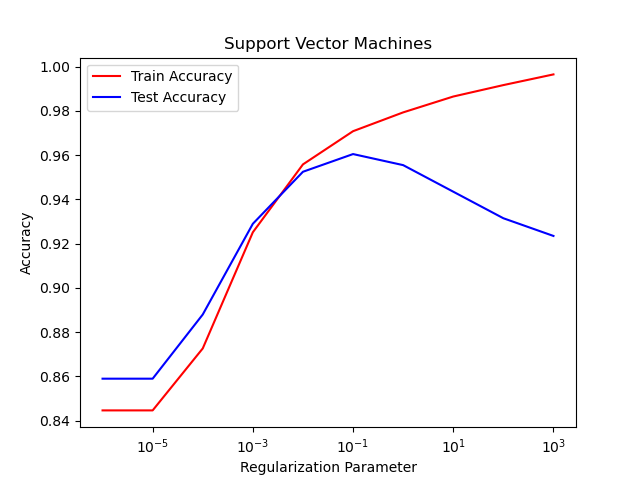
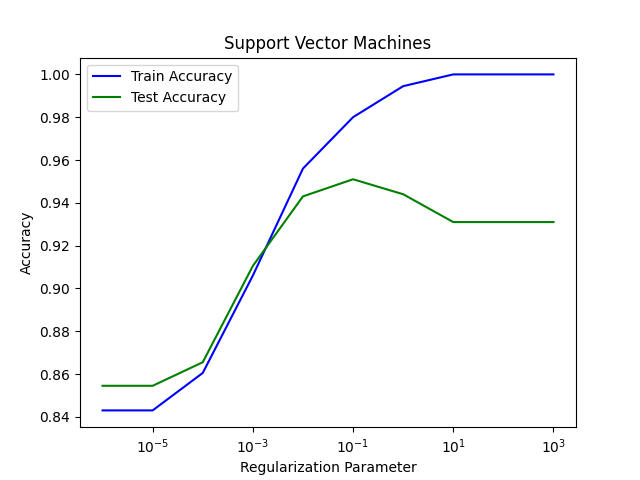
added k-fold cross validation and gaussian kernel.

diff --git a/A2/svm.py b/A2/svm.py
@@ -33,12 +33,12 @@ def init():
     # Convert training data to binary classification problem.
     for i in range(train_len):
 
-        if y_train[i] == 5 and sandal_count < 3000:
+        if y_train[i] == 5 and sandal_count < 1000:
             y_train_temp.append(0)
             X_train_temp.append(X_train[i])
             sandal_count += 1
 
-        if y_train[i] == 7 and sneaker_count < 3000:
+        if y_train[i] == 7 and sneaker_count < 1000:
             y_train_temp.append(1)
             X_train_temp.append(X_train[i])
             sneaker_count += 1
@@ -64,10 +64,8 @@ def init():
 
 # Implementation of support vector machines.
 def svm_function(X_train, y_train, X_test, y_test, kernel, c, gamma):
-    if kernel == 'linear':
-        clf = svm.SVC(kernel = kernel, C = c)
-    elif kernel == 'rbf':
-        clf = svm.SVC(kernel = kernel, C = c, gamma = gamma)
+    if kernel == 'linear': clf = svm.SVC(kernel = kernel, C = c)
+    elif kernel == 'rbf': clf = svm.SVC(kernel = kernel, C = c, gamma = gamma)
     
     clf.fit(X_train, y_train)
 
@@ -76,6 +74,145 @@ def svm_function(X_train, y_train, X_test, y_test, kernel, c, gamma):
     test_accuracy = metrics.accuracy_score(y_test, y_test_prediction)
 
     return train_accuracy, test_accuracy
+
+
+# Run SVM.
+def svm_standard(kernel, gamma):
+    X_train, y_train, X_test, y_test = init()
+    c_values = generate_c_values(0.000001, 10)
+
+    train_accuracies = []
+    test_accuracies = []
+
+    for c in c_values:
+        train_accuracy, test_accuracy = svm_function(X_train, y_train, X_test, y_test, kernel, c, gamma)
+        train_accuracies.append(train_accuracy)
+        test_accuracies.append(test_accuracy)
+
+    generate_plot(train_accuracies, test_accuracies, c_values, kernel)
+
+
+# Implementation of support vector machines with k-fold cross validation.
+def svm_kfold(kernel, gamma):
+    X_train, y_train, X_test, y_test = init()
+    
+    c_values = generate_c_values(0.000001, 10)
+    k_values = [10]
+
+    test_accuracies = []
+
+    for k in k_values:
+        fold_accuracies = []
+        
+        X_length = len(X_train)
+        y_length = len(y_train)
+        fold = X_length / k
+
+        for c in c_values:
+            print("c: " + str(c))
+            c_accuracies = []
+
+            for group in range(k):
+                next_group = group + 1
+                start = int(fold * group)
+                stop = int(fold * next_group)
+
+                if group == (k - 1):
+                    X_train_group = X_train[0 : start]
+                    y_train_group = y_train[0 : start]
+                
+                elif group == 0:
+                    X_train_group = X_train[stop + 1 : X_length]
+                    y_train_group = y_train[stop + 1 : y_length]
+
+                else:
+                    X_train_group = np.concatenate((
+                        np.array(X_train[0 : start]),
+                        np.array(X_train[stop + 1 : X_length])))
+                    
+                    y_train_group = np.concatenate((
+                        np.array(y_train[0 : start]),
+                        np.array(y_train[stop + 1 : y_length])))
+                
+                X_train_test = X_train[start : stop]
+                y_train_test = y_train[start : stop]
+
+                train_accuracy, test_accuracy = svm_function(X_train_group, y_train_group, X_train_test, y_train_test, kernel, c, gamma)
+                c_accuracies.append(test_accuracy)
+            
+            avg_accuracy = np.average(c_accuracies)
+            fold_accuracies.append(avg_accuracy)
+
+        test_accuracies.append(fold_accuracies)
+
+    generate_kfold_plot(test_accuracies, c_values, kernel)
+
+
+# Implementation of support vector machines with k-fold cross validation and a Gaussian kernel.
+def svm_gaussian():
+    X_train, y_train, X_test, y_test = init()
+
+    c_values = [0.1]
+    k_values = [10]
+    gamma_values = [0.001, 0.005, 0.01, 0.05, 0.1, 0.5, 1]
+
+    test_accuracies = []
+    training_accuracies = []
+
+    for k in k_values:
+        X_length = len(X_train)
+        y_length = len(y_train)
+        fold = X_length / k
+
+        for c in c_values:
+            print("c: " + str(c))
+            c_test_accuracies = []
+            c_training_accuracies = []
+
+            for gamma in gamma_values:
+                print("\tgamma: " + str(gamma))
+                gamma_test_accuracies = []
+                gamma_training_accuracies = []
+
+                for group in range(k):
+                    next_group = group + 1
+                    start = int(fold * group)
+                    stop = int(fold * next_group)
+
+                    if group == (k - 1):
+                        X_train_group = X_train[0 : start]
+                        y_train_group = y_train[0 : start]
+
+                    elif group == 0:
+                        X_train_group = X_train[stop + 1 : X_length]
+                        y_train_group = y_train[stop + 1 : y_length]
+
+                    else:
+                        X_train_group = np.concatenate((
+                            np.array(X_train[0 : start]),
+                            np.array(X_train[stop + 1 : X_length])))
+
+                        y_train_group = np.concatenate((
+                            np.array(y_train[0 : start]),
+                            np.array(y_train[stop + 1 : y_length])))
+
+                    X_train_test = X_train[start : stop]
+                    y_train_test = y_train[start : stop]
+
+                    train_accuracy, test_accuracy = svm_function(X_train_group, y_train_group, X_train_test, y_train_test, 'rbf', c, gamma)
+                    gamma_test_accuracies.append(test_accuracy)
+                    gamma_training_accuracies.append(train_accuracy)
+
+                avg_test_accuracy = np.average(gamma_test_accuracies)
+                c_test_accuracies.append(avg_test_accuracy)
+
+                avg_train_accuracy = np.average(gamma_training_accuracies)
+                c_training_accuracies.append(avg_train_accuracy)
+
+            test_accuracies.append(c_test_accuracies)
+            training_accuracies.append(c_training_accuracies)
+
+        generate_gaussian_plot(training_accuracies, test_accuracies, gamma_values)
 
 
 # Generates regulization parameters using a logarithmically spaced grid.
@@ -89,37 +226,63 @@ def generate_c_values(initial, alpha):
 
 
 # Use matplotlib to create graph for results.
-def generate_plot(train_accuracies, test_accuracies, c_values):
+def generate_plot(train_accuracies, test_accuracies, c_values, kernel):
     plt.title("Support Vector Machines")
     plt.xlabel("Regularization Parameter")
     plt.xscale('log')
     plt.ylabel("Accuracy")
 
-    plt.plot(c_values, train_accuracies, 'r', label = "Train Accuracy")
-    plt.plot(c_values, test_accuracies, 'b', label = "Test Accuracy")
+    plt.plot(c_values, train_accuracies, 'b', label = "Train Accuracy")
+    plt.plot(c_values, test_accuracies, 'g', label = "Test Accuracy")
 
     plt.legend()
 
-    filename = "LinearSVM.png"
+    if kernel == "linear": filename = "LinearSVM.png"
+    elif kernel == "rbf": filename = "GaussianSVM.png"
+
+    plt.savefig(filename)
+    plt.clf()
+
+
+# Use matplotlib to create graph for results (with k-fold cross validation).
+def generate_kfold_plot(test_accuracies, c_values, kernel):
+    plt.title("Support Vector Machines with K-Fold Cross Validation")
+    plt.xlabel("Regularization Parameter")
+    plt.xscale('log')
+    plt.ylabel("Accuracy")
+
+    plt.plot(c_values, test_accuracies[0], 'b', label = "k = 10")
+
+    plt.legend()
+
+    if kernel == "linear": filename = "LinearSVM_KFold.png"
+    elif kernel == "rbf": filename = "GaussianSVM_KFold.png"
+
+    plt.savefig(filename)
+    plt.clf()
+
+
+# Use matplotlib to create graph for results (Gaussian kernel).
+def generate_gaussian_plot(training_accuracies, test_accuracies, gamma_values):
+    plt.title("Support Vector Machines with K-Fold Cross Validation\n and Gaussian Kernel (C = 0.1, K = 10)")
+    plt.xlabel("Gamma")
+    plt.xscale('log')
+    plt.ylabel("Accuracy")
+
+    plt.plot(gamma_values, test_accuracies[0], 'b', label = "Test Accuracy")
+    plt.plot(gamma_values, training_accuracies[0], 'g', label = "Training Accuracy")
+
+    plt.legend()
+
+    filename = "GaussianSVM_KFold.png"
     plt.savefig(filename)
     plt.clf()
 
 
 def main():
-    X_train, y_train, X_test, y_test = init()
-    c_values = generate_c_values(0.000001, 10)
+    # svm_standard('linear', 'scale')
+    # svm_kfold('linear', 'scale')
+    svm_gaussian()
 
-    kernel = 'linear'
-    gamma = 'scale'
-
-    train_accuracies = []
-    test_accuracies = []
-
-    for c in c_values:
-        train_accuracy, test_accuracy = svm_function(X_train, y_train, X_test, y_test, kernel, c, gamma)
-        train_accuracies.append(train_accuracy)
-        test_accuracies.append(test_accuracy)
-
-    generate_plot(train_accuracies, test_accuracies, c_values)
 
 main()
